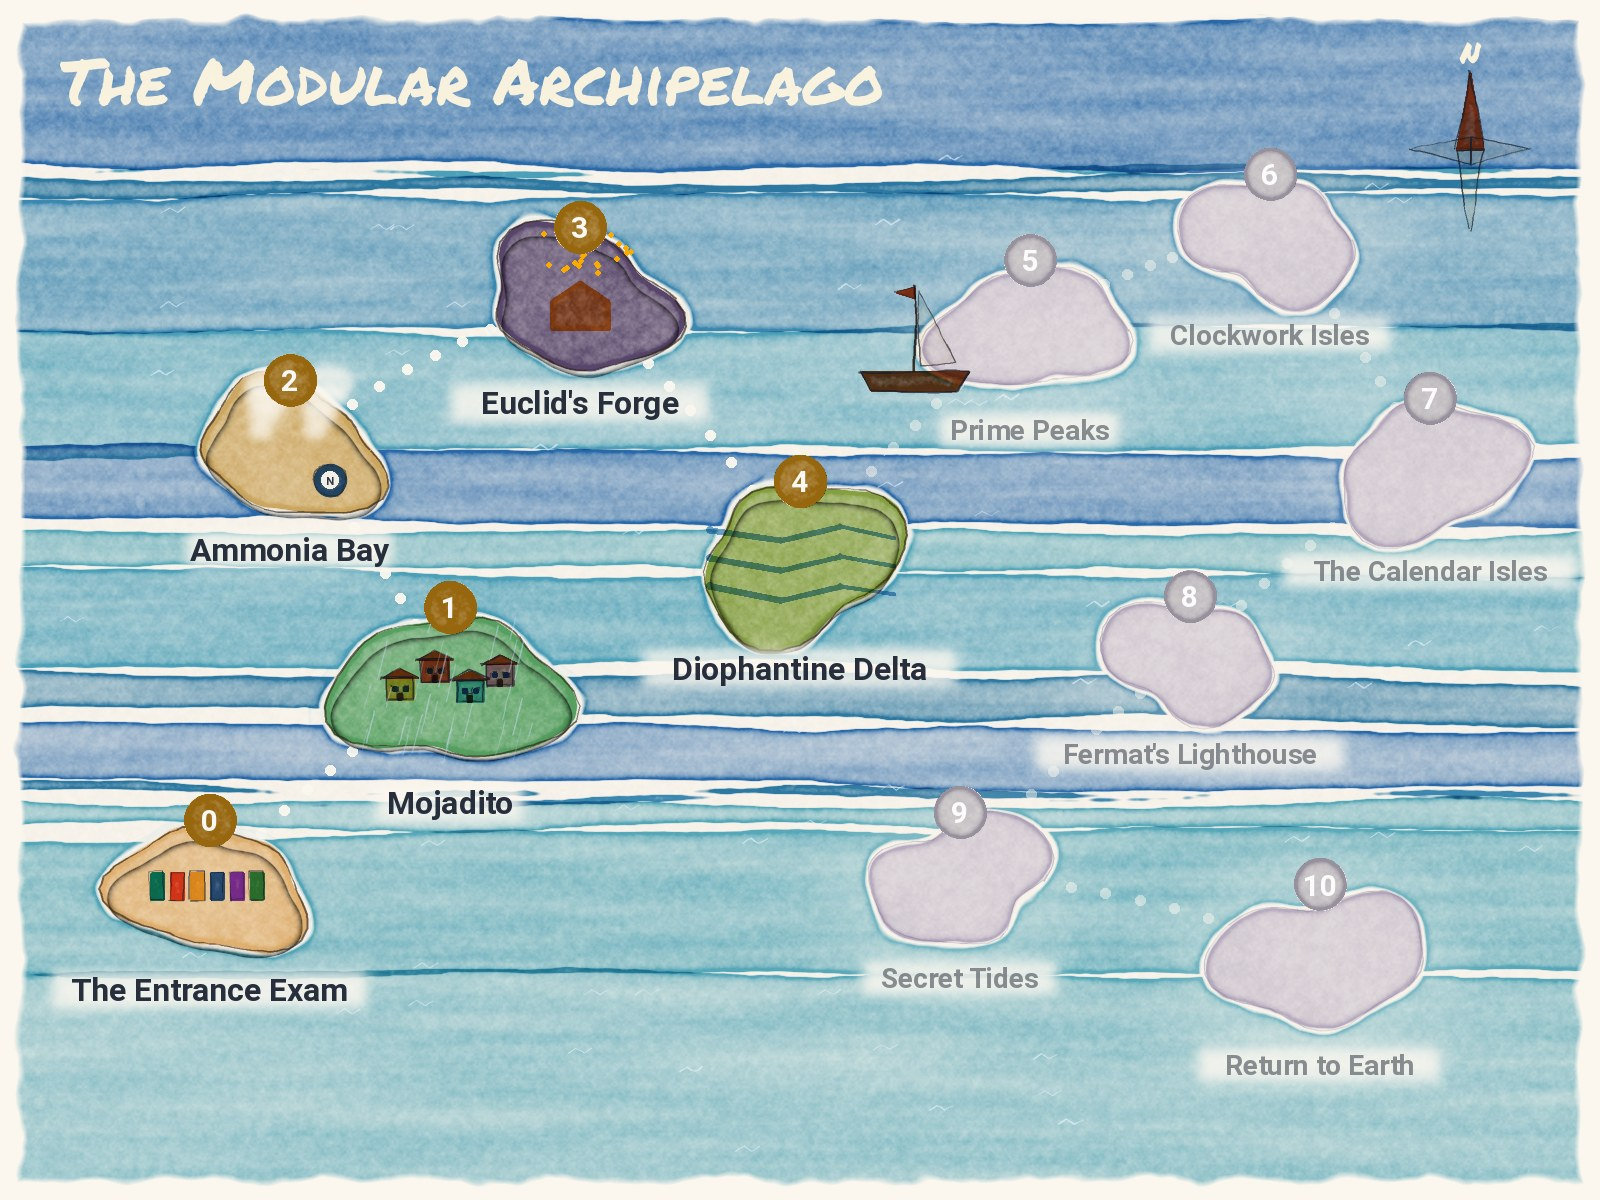
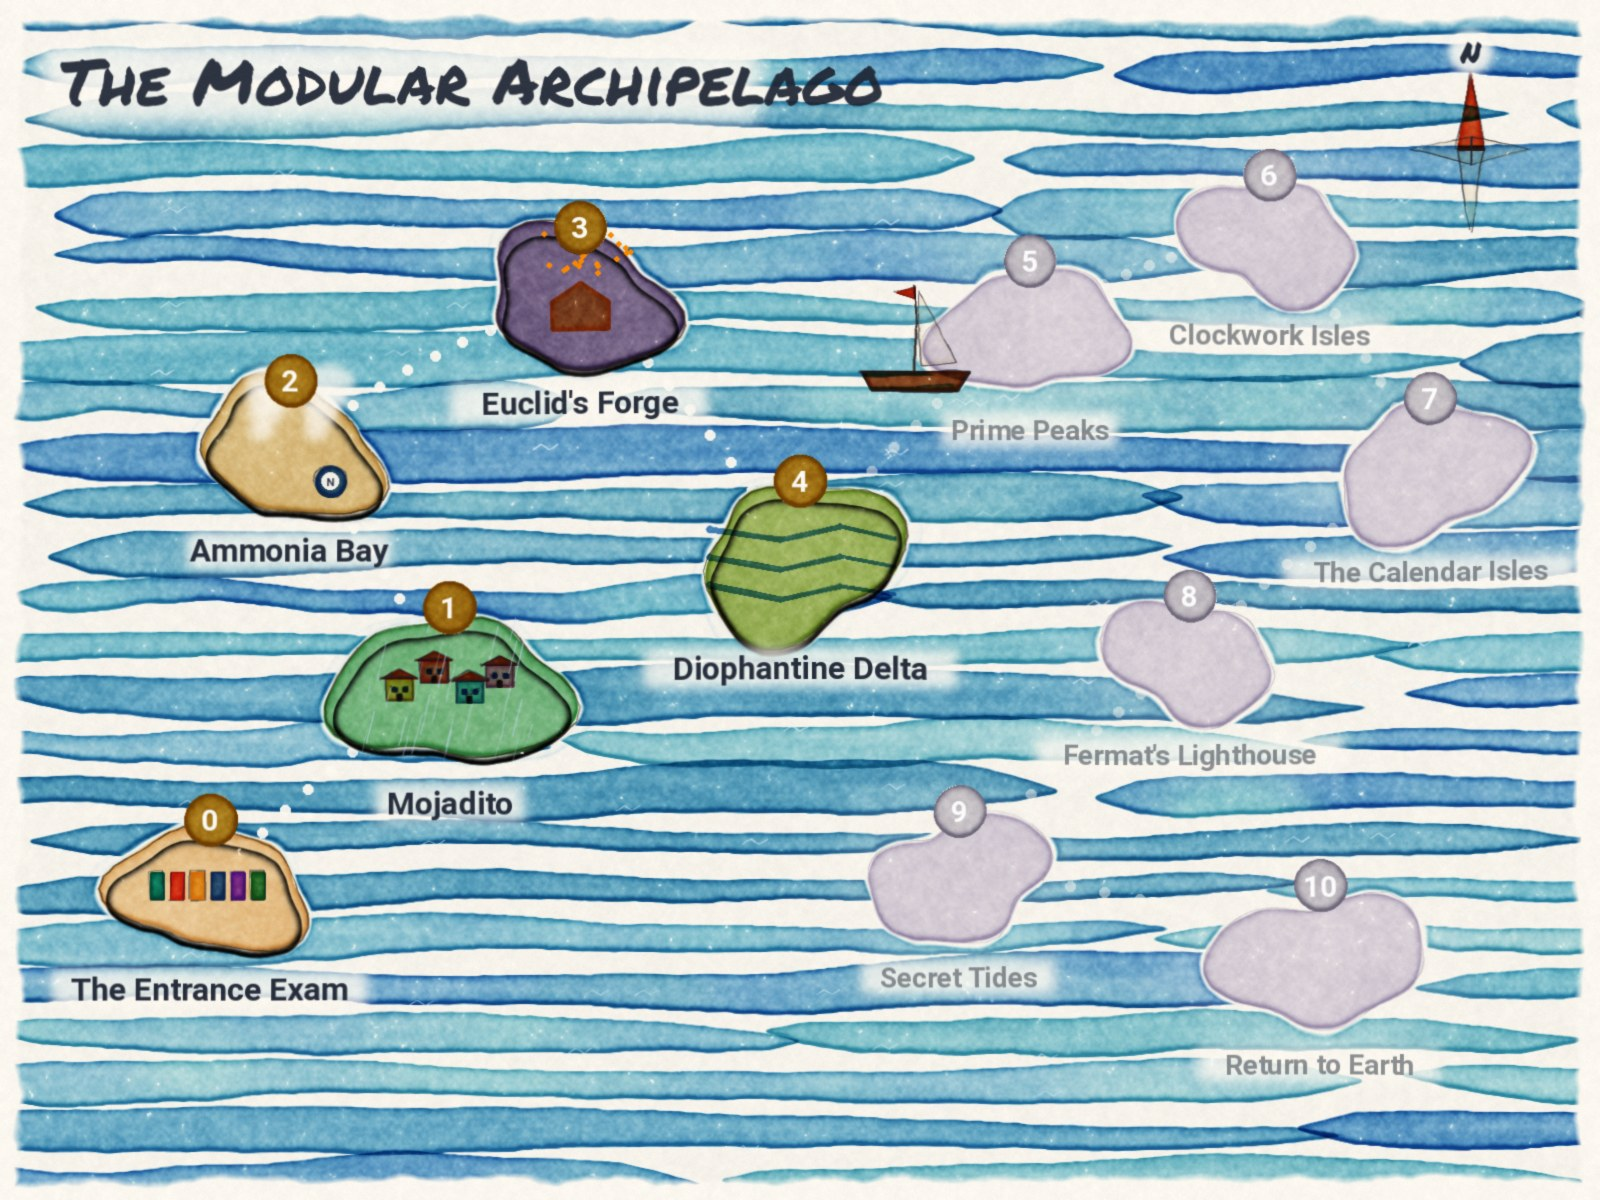
Watercolor art v2: brushstroke skies, stroke fills, paper tooth, granulation, pooled edges, Beer-Lambert glazing, blooms, paper distortion and scan finish
Claude-Session: https://claude.ai/code/session_01WRUabigZwJ7doKg4KvSBus

diff --git a/artsrc/scenes.py b/artsrc/scenes.py
@@ -35,15 +35,55 @@ def stars(p, n, region, seed=3):
 
 
 def sky_bands(p, y0, y1, colors, reserve=None, n=9, gap=6, strength=0.8, seed=0):
-    random.seed(seed)
-    cuts = sorted([y0] + [random.uniform(y0, y1) for _ in range(n - 1)] + [y1])
-    for i in range(n):
-        g1, g2 = random.uniform(-3, gap * 1.6), random.uniform(-3, gap * 1.6)
-        tilt = random.uniform(-14, 14)
-        top = [(x, y + tilt * (x / W - 0.5)) for x, y in jag(-20, W + 20, cuts[i] + g1 / 2, 7, 10)]
-        bot = [(x, y + tilt * (x / W - 0.5)) for x, y in jag(W + 20, -20, cuts[i + 1] - g2 / 2, 7, 10)]
-        m = p.poly_mask(top + bot)
-        p.wash(m, random.choice(colors), strength * random.uniform(0.7, 1.05), wobble=3, edge=0.6, rough=0.45, streak=(260, 16), var=0.6, reserve=reserve, halo=5)
+    """A sky made of real-looking horizontal brushstrokes: tapered rounded ends, wavy edges,
+    pigment pooling along the bottom edge, white paper between and inside strokes."""
+    rnd = random.Random(seed)
+    rows = int(n * 1.6)
+    ys = np.linspace(y0 - 6, y1 + 4, rows + 1)
+    for i in range(rows):
+        yc = (ys[i] + ys[i + 1]) / 2; thick = (ys[i + 1] - ys[i]) * rnd.uniform(0.8, 1.25) - rnd.uniform(0, gap)
+        x = rnd.uniform(-120, 60)
+        while x < W + 40:
+            L = rnd.uniform(0.35, 1.0) * W
+            col = rnd.choice(colors); mixc = rnd.choice(colors)
+            k = 26; pts = []
+            ph = rnd.uniform(0, 6.3); amp = rnd.uniform(2, 7); tilt = rnd.uniform(-10, 10)
+            top, bot = [], []
+            for j in range(k + 1):
+                u = j / k; xx = x + L * u
+                taper = min(1, u / 0.06, (1 - u) / 0.1) ** 0.6
+                wv = math.sin(u * 9 + ph) * amp + math.sin(u * 23 + ph * 2) * amp * 0.4 + tilt * (u - 0.5)
+                th = thick * (0.75 + 0.25 * math.sin(u * 5 + ph)) * max(0.05, taper)
+                top.append((xx, yc + wv - th / 2)); bot.append((xx, yc + wv + th / 2 + rnd.uniform(-1.5, 1.5)))
+            m = p.poly_mask(top + bot[::-1])
+            p.wash(m, col, strength * rnd.uniform(0.65, 1.05), wobble=2.2, edge=0.55, rough=0.5, streak=(240, 14), var=0.6,
+                   reserve=reserve, halo=5, mix=mixc if rnd.random() < 0.5 else None, pool=0.9, tooth=0.45, gran=0.35)
+            x += L + rnd.uniform(-60, 40)
+
+
+def fill_strokes(p, region, colors, y0, y1, thick=40, overlap=0.25, strength=0.7, seed=0, angle=0.0, reserve=None, bloom=0, amp=4):
+    """Fill a region with overlapping brushstrokes (visible strokes, darker overlaps), clipped to the region."""
+    rnd = random.Random(seed)
+    y = y0 - thick * 0.3
+    while y < y1 + thick * 0.3:
+        th = thick * rnd.uniform(0.8, 1.3)
+        x = rnd.uniform(-200, 0)
+        while x < W + 60:
+            L = rnd.uniform(0.3, 0.8) * W; ph = rnd.uniform(0, 6.3)
+            top, bot = [], []
+            for j in range(21):
+                u = j / 20; xx = x + L * u
+                taper = min(1, u / 0.05, (1 - u) / 0.08) ** 0.5
+                yy = y + math.sin(u * 7 + ph) * amp + angle * (xx - W / 2)
+                hh = th * max(0.1, taper) * (0.8 + 0.2 * math.sin(u * 4 + ph))
+                top.append((xx, yy - hh / 2)); bot.append((xx, yy + hh / 2))
+            m = p.poly_mask(top + bot[::-1]) * region
+            if m.max() > 0:
+                p.wash(m, rnd.choice(colors), strength * rnd.uniform(0.6, 1.0), wobble=2, edge=0.5, rough=0.45, var=0.5,
+                       streak=(200, 20), mix=rnd.choice(colors) if rnd.random() < 0.4 else None, reserve=reserve, halo=4,
+                       pool=0.7, tooth=0.4, gran=0.45, bloom=bloom if rnd.random() < 0.3 else 0)
+            x += L - rnd.uniform(0, 80)
+        y += th * (1 - overlap)
 
 
 def balance_reserve(p):
@@ -65,22 +105,21 @@ def ch3():
     cliffm = p.poly_mask([(980, 800), (1010, 520), (1080, 400), (1150, 300), (1260, 232), (1370, 192), (1480, 212), (1610, 172), (1610, 800)])
     res = np.clip(moon + bal + archm + cliffm, 0, 1)
     # sky in streaky bands
-    sky_bands(p, 0, 476, ['#24308f', '#3b2f8f', '#1f3fa0', '#5a3d9a', '#2a3a96', '#1b2a7a'], reserve=res, n=12, gap=9, strength=0.8, seed=2)
+    sky_bands(p, 0, 476, ['#24308f', '#3b2f8f', '#1f3fa0', '#5a3d9a', '#2a3a96', '#1b2a7a'], reserve=res, n=8, gap=2, strength=0.85, seed=2)
     stars(p, 120, (20, 20, 980, 380))
     p.wash(moon, '#f3df8a', 0.45, wobble=2, edge=0.7)
     p.ink([(300 + 54 * math.cos(t), 150 + 54 * math.sin(t)) for t in np.linspace(0, 2 * math.pi, 40)], 1.6, '#3a3420', 0.6)
     # sea
     sea = p.poly_mask([(-10, 478), (1010, 470), (1030, 605), (-10, 612)])
-    p.wash(sea, '#1f5fb8', 0.75, wobble=3, streak=(380, 12), var=0.7, seed=4, reserve=res)
-    p.wash(p.poly_mask([(-10, 540), (1030, 535), (1030, 605), (-10, 612)]), '#2b8fc0', 0.35, wobble=3, streak=(380, 10), reserve=res)
+    fill_strokes(p, sea, ['#1f5fb8', '#2b6fc8', '#1a4fa0', '#2b8fc0'], 470, 612, thick=26, overlap=0.15, strength=0.8, seed=4, reserve=res)
     random.seed(5)
     for y in (500, 522, 548, 575, 598):
         xs = random.uniform(0, 300)
         p.lift(p.stroke_mask([(xs, y), (xs + random.uniform(250, 650), y + random.uniform(-3, 3))], 4, 2), 0.9)
     # cliff
     cliff = [(980, 800), (1010, 520), (1080, 400), (1150, 300), (1260, 232), (1370, 192), (1480, 212), (1610, 172), (1610, 800)]
-    p.wash(p.poly_mask(cliff), '#5b4a74', 0.75, wobble=4, edge=0.8, seed=5, reserve=archm)
-    p.wash(p.poly_mask([(1060, 800), (1110, 560), (1210, 430), (1400, 380), (1610, 330), (1610, 800)]), '#3a3048', 0.45, wobble=6, seed=6, reserve=archm)
+    p.wash(p.poly_mask(cliff), '#6a5a84', 0.55, wobble=4, edge=0.8, seed=5, reserve=archm, mix='#4a5a7a', bloom=2)
+    fill_strokes(p, p.poly_mask(cliff), ['#5b4a74', '#3a3048', '#4a3f62'], 180, 800, thick=70, overlap=0.1, strength=0.45, seed=6, angle=-0.35, reserve=archm, amp=10)
     for k in range(6):
         x = 1050 + k * 90
         p.ink([(x, 330 + k * 8 - 40), (x + 30, 420), (x + 10, 520)], 1.3, '#2a2236', 0.5, 2)
@@ -90,8 +129,8 @@ def ch3():
     p.wash(inner, '#ff7a1a', 0.6, wobble=4, edge=1.0, var=0.7)
     p.wash(p.poly_mask([(1250, 615), (1270, 560), (1300, 520), (1330, 560), (1350, 615)]), '#c8301a', 0.5, wobble=4, edge=1.0)
     p.lift(p.ellipse_mask(1300, 585, 34, 22), 0.55); p.wash(p.ellipse_mask(1300, 585, 34, 22), '#ffe9a0', 0.4, wobble=3)
-    glow = gaussian(archm, 45)
-    p.wash(np.clip(glow * 2.2 - archm, 0, 1), '#ff8c3a', 0.55, wobble=0, edge=0)
+    glow = np.clip(gaussian(archm, 45) * 2.2 - archm, 0, 1)
+    p.lift(glow, 0.55); p.wash(glow, '#ffb04a', 0.5, wobble=0, edge=0, tooth=0, pool=0)
     p.ink(arch, 2.6, '#1d1010', 0.85)
     for x in (1250, 1300, 1350):
         p.ink([(x, 615), (x + 6, 600)], 1.2, '#3a1a10', 0.6)
@@ -102,10 +141,11 @@ def ch3():
         mk = p.ellipse_mask(x, y, s, s); p.lift(mk, 1.0); p.wash(mk, random.choice(['#ffb000', '#ff7a1a', '#ffd84a']), 0.85, wobble=0.6, edge=0.3, rough=0.1)
     # beach
     beach = p.poly_mask([(-10, 605), (1040, 596), (1610, 640), (1610, 810), (-10, 810)])
-    p.wash(beach, '#3a3440', 0.7, wobble=3, gran=0.35, seed=7, reserve=np.clip(bal + cliffm, 0, 1))
-    p.wash(p.poly_mask([(-10, 690), (1610, 705), (1610, 810), (-10, 810)]), '#24202a', 0.45, wobble=6, gran=0.35, reserve=bal)
+    p.wash(beach, '#3a3440', 0.55, wobble=3, seed=7, reserve=np.clip(bal + cliffm, 0, 1), mix='#2a2a38', gran=0.6, bloom=2)
+    fill_strokes(p, beach, ['#3a3440', '#2a2630', '#4a4050', '#24202a'], 600, 810, thick=60, overlap=0.5, strength=0.4, seed=7, reserve=np.clip(bal + cliffm, 0, 1), amp=9)
     p.splatter(160, '#15131a', (0, 620, 1000, 800), 1, 3, 0.5)
-    p.wash(gaussian(p.poly_mask([(1150, 615), (1450, 615), (1610, 800), (1000, 800)]), 30), '#e8743a', 0.35, wobble=0, edge=0)
+    sp = gaussian(p.poly_mask([(1150, 615), (1450, 615), (1610, 800), (1000, 800)]), 30)
+    p.lift(sp, 0.35); p.wash(sp, '#f0a050', 0.35, wobble=0, edge=0, tooth=0, pool=0)
     random.seed(11)
     for y in (650, 700, 750):
         x = random.uniform(0, 300); p.lift(p.stroke_mask([(x, y), (x + random.uniform(300, 600), y + 6)], 2.5, 1), 0.35)
@@ -531,13 +571,15 @@ def archipelago(unlocked=5):
     sx, sy = (pts[unlocked - 1][0] + pts[unlocked][0]) / 2, (pts[unlocked - 1][1] + pts[unlocked][1]) / 2 - 60
     boat(p, sx, sy, 110, hull='#7a3b1a', flag='#c8401a')
     # title and compass
-    p.text((60, 80), 'The Modular Archipelago', 64, MARKER, '#fff6e0', 0.95, anchor='lm')
+    p.lift(gaussian(p.rect_mask(40, 40, 760, 122), 10), 0.92)
+    p.text((60, 80), 'The Modular Archipelago', 64, MARKER, '#1d2433', 0.92, anchor='lm')
     cx, cy = MW_ - 130, 150
     for a, L, c in ((0, 80, '#c8401a'), (math.pi, 80, '#f6f1e7'), (math.pi / 2, 60, '#f6f1e7'), (-math.pi / 2, 60, '#f6f1e7')):
         tip = (cx + math.sin(a) * L, cy - math.cos(a) * L)
         side1 = (cx + math.cos(a) * 14, cy + math.sin(a) * 14); side2 = (cx - math.cos(a) * 14, cy - math.sin(a) * 14)
         quad(p, [tip, side1, side2], c, 0.85, lw=1.4)
-    p.text((cx, cy - 104 + 6), 'N', 30, MARKER, '#fff6e0', 0.95)
+    p.lift(gaussian(p.ellipse_mask(cx, cy - 98, 22, 22), 4), 0.9)
+    p.text((cx, cy - 98), 'N', 30, MARKER, '#1d2433', 0.95)
     p.border(18)
     out = p.save(OUT + 'map.jpg')
     W, H = W0, H0

diff --git a/artsrc/wc.py b/artsrc/wc.py
@@ -25,6 +25,8 @@ class Painting:
         random.seed(seed)
         tex = self.noise(7, 7, 3) * 0.6 + self.noise(2.5, 2.5, 2) * 0.4
         self.paper_tex = tex
+        ph = self.noise(9, 9, 3) * 0.55 + self.noise(3.5, 3.5, 2) * 0.45
+        self.ph = (ph - ph.min()) / (ph.max() - ph.min())
         base = hexc(paper)
         self.c = np.ones((H, W, 3)) * base * (1 - 0.035 * tex[..., None])
 
@@ -76,7 +78,11 @@ class Painting:
         return gaussian_filter(m, blur) if blur else m
 
     # ---------- painting ----------
-    def wash(self, mask, color, strength=0.8, wobble=5, edge=0.5, gran=0.25, var=0.35, seed=None, rough=0.45, streak=None, reserve=None, halo=4):
+    def wash(self, mask, color, strength=0.8, wobble=5, edge=0.5, gran=0.25, var=0.35, seed=None, rough=0.45, streak=None, reserve=None, halo=4, tooth=0.35, mix=None, pool=0.6, bloom=0):
+        """One watercolor wash.
+        mask: where the brush went; color: pigment (or mix=second pigment for wet-in-wet);
+        edge: dried-edge darkening; pool: pigment pooling at the lower edge (gravity);
+        tooth: paper peaks left white; gran: pigment settling in paper valleys; bloom: backruns."""
         if seed is not None:
             self.rng = np.random.default_rng(seed)
         col = hexc(color) if isinstance(color, str) else np.array(color)
@@ -84,21 +90,46 @@ class Painting:
         m = gaussian_filter(mask.astype(np.float32), wobble) if wobble else mask.astype(np.float32)
         n1 = self.noise(wobble * 6 + 20, wobble * 6 + 20, 3)
         m2 = np.clip((m + (n1 - 0.5) * rough - 0.5) * 5 + 0.5, 0, 1)
-        m2 = m2 * (mask > 0.02) if wobble == 0 else m2
+        if wobble == 0:
+            m2 = m2 * (mask > 0.02)
         if reserve is not None:
             rv = gaussian_filter(reserve.astype(np.float32), halo)
             rv = np.clip((rv + (self.noise(30, 30, 2) - 0.5) * 0.3 - 0.12) * 6, 0, 1)
             m2 = m2 * (1 - rv)
-        rim = np.clip(m2 - gaussian_filter(m2, 3.5), 0, 1) * edge * 3.0
-        if streak:
-            nv = self.noise(streak[0], streak[1], 4)
-        else:
-            nv = self.noise(90, 90, 4)
+        inner = gaussian_filter(m2, 3.5)
+        rim = np.clip(m2 - inner, 0, 1) * edge * 3.0
+        if pool:
+            gy = np.gradient(gaussian_filter(m2, 2.5), axis=0)
+            rim = rim + np.clip(-gy, 0, None) * pool * 9.0
+        nv = self.noise(streak[0], streak[1], 4) if streak else self.noise(90, 90, 4)
         dens = strength * m2 * (1 - var / 2 + var * nv) + rim * m2
-        fine = self.paper_tex
-        dens = dens * (1 + gran * (fine - 0.5) * 2)
-        dens = np.clip(dens, 0, 1)[..., None]
-        self.c = self.c * (1 - dens * (1 - col))
+        # granulation: pigment settles in the valleys of the paper
+        dens = dens * (1 + gran * (0.5 - self.ph) * 2.2)
+        # paper tooth: the highest peaks stay white, more where the wash is thin
+        if tooth:
+            thin = 1 - np.clip(dens, 0, 1)
+            peak = np.clip((self.ph - (0.92 - tooth * 0.25 * (0.4 + thin))) * 12, 0, 1)
+            dens = dens * (1 - peak * 0.85)
+        if bloom:
+            for _ in range(int(bloom)):
+                ys, xs = np.nonzero(m2 > 0.8)
+                if len(xs) == 0: break
+                k = self.rng.integers(len(xs)); cx, cy = xs[k], ys[k]
+                r = self.rng.uniform(18, 45)
+                yy, xx = np.ogrid[0:H, 0:W]
+                d = np.sqrt((xx - cx) ** 2 + (yy - cy) ** 2) / r
+                d = d + (self.noise(14, 14, 3) - 0.5) * 0.6
+                ring = np.exp(-((d - 1) ** 2) / 0.012) * 0.6
+                dens = dens * np.where(d < 1, 0.55, 1.0) + ring * strength * m2
+        dens = np.clip(dens, 0, 1.6)
+        if mix is not None:
+            c2 = hexc(mix) if isinstance(mix, str) else np.array(mix)
+            t = self.noise(160, 120, 3)[..., None]
+            t = np.clip((t - 0.5) * 2.2 + 0.5, 0, 1)
+            col = col[None, None, :] * (1 - t) + c2[None, None, :] * t
+        # Beer-Lambert layering: each glaze absorbs light multiplicatively, like real transparent pigment
+        A = -np.log(np.clip(col, 0.03, 1.0))
+        self.c = self.c * np.exp(-A * dens[..., None])
 
     def glaze(self, mask, color, strength=0.5):
         col = hexc(color)
@@ -173,7 +204,20 @@ class Painting:
         paper = np.array([0.985, 0.97, 0.94])
         self.c = self.c * k + paper * (1 - k)
 
-    def save(self, path, quality=88):
+    def finish(self):
+        from scipy.ndimage import map_coordinates
+        H, W = self.H, self.W
+        dx = (self.noise(220, 220, 2) - 0.5) * 3.0; dy = (self.noise(220, 220, 2) - 0.5) * 3.0
+        yy, xx = np.mgrid[0:H, 0:W].astype(np.float32)
+        for ch in range(3):
+            self.c[..., ch] = map_coordinates(self.c[..., ch], [yy + dy, xx + dx], order=1, mode='nearest')
+        self.c = gaussian_filter(self.c, (0.55, 0.55, 0))
+        shade = (self.ph - 0.5) * 0.035
+        self.c = self.c * (1 + shade[..., None]) + self.rng.normal(0, 0.006, self.c.shape)
+
+    def save(self, path, quality=88, finish=True):
+        if finish:
+            self.finish()
         im = Image.fromarray((np.clip(self.c, 0, 1) * 255).astype(np.uint8))
         if path.endswith('.jpg'):
             im.save(path, quality=quality, optimize=True, progressive=True)
